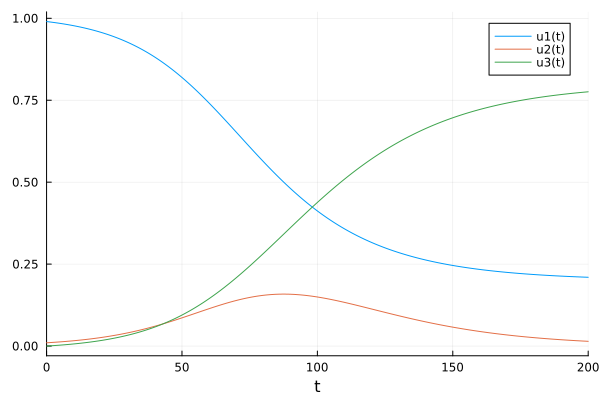
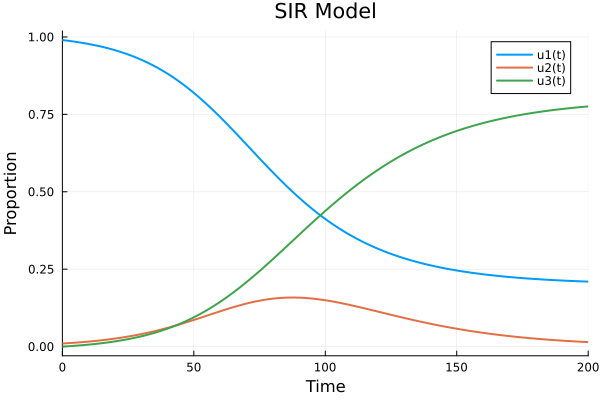
Expanded system message to run julia code within the python kernell

diff --git a/Autogen/app.py b/Autogen/app.py
@@ -1,4 +1,4 @@
-import autogen
+import autogen 
 from autogen import ConversableAgent
 #Importing files to avoid showing the API key
 from dotenv import load_dotenv
@@ -30,14 +30,21 @@ llm_config = {
 #Assistant, representing the llm
 assistant = ConversableAgent(
     "LLM",
-    system_message="You will produce Julia Code for solving equations numerically.",
+    system_message="You will produce Julia code to solve equations numerically. The Julia code must be compatible with execution from a Python kernel using the `julia` Python package. "
+        "Always use the `Main` module from `julia` to execute Julia code within Python. Start by importing `Main` from the `julia` package in Python. "
+        "If a required Julia library is required, only import it. It is already installed."
+        "All Julia code should be passed as strings to `Main.eval` and must handle numerical computations or library installations. "
+        "Whenever possible, include Python comments explaining each step. "
+        "Importantly, the code you generate will be executed as a temporary file. Therefore, if you suggest new or supplementing code after feedback from the user, append it to the previous code because there is no track in the terminal of the previous executions."
+        "Once you generate the code to solve the prompt handled by the user, you will add to it a code block so that when the user runs all the script, the Julia code for solving the prompt is stored in the user's directory as a `.jl` file."
+        "When the user states that your solution is succesful or when the output code is succesful then say TERMINATE",
     llm_config = llm_config
 )
 
 #AI agent, representing the USER.
 user_proxy = ConversableAgent(
      "CODE_executor",
-    system_message="You will run Julia Code within python for solving equations numerically. In the case a Julia library is missing you should implement 'from julia import Pkg,Pkg.add(PackageName)'",
+    system_message="You will run Julia Code within python for solving equations numerically.",
     #name = "user_proxy",
     human_input_mode = "ALWAYS",
     max_consecutive_auto_reply = 10,
@@ -47,7 +54,7 @@ user_proxy = ConversableAgent(
     #system_message = """Reply TERMINATE if the task has been solved at full satisfaction. Otherwise, reply CONTINUE, or the reason why the task is not solved yet """
 
 )
-task = """Solve the SIR Model numerically using Julia language."""
+task = """Solve the SIR Model numerically using Julia language and save the plot."""
 
 user_proxy.initiate_chat(
     assistant, 
